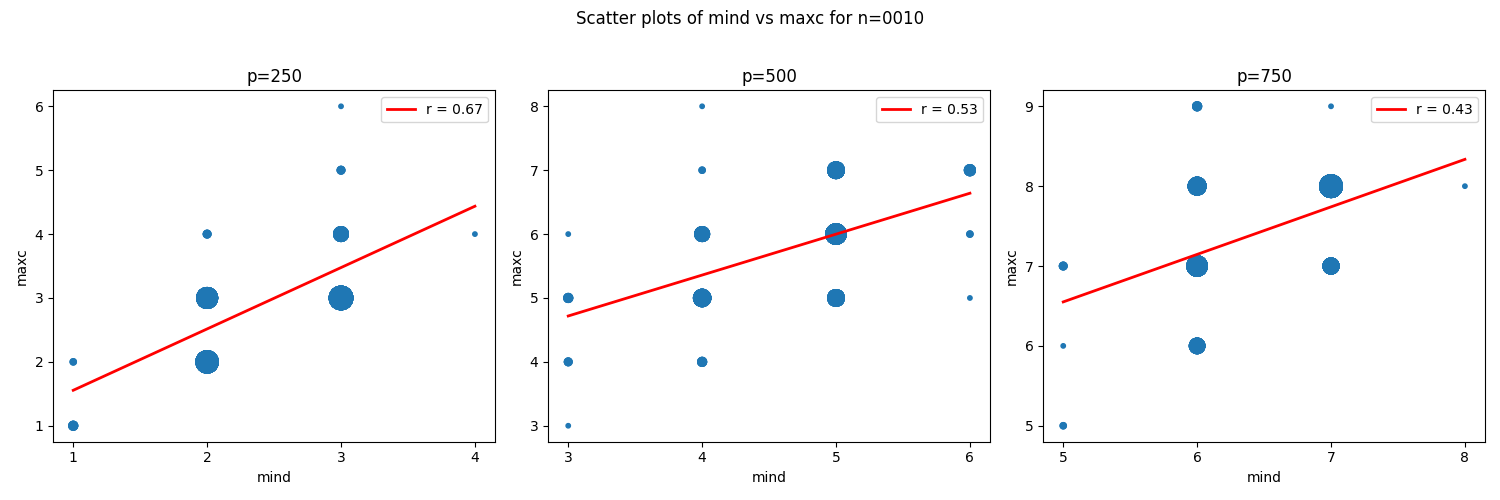
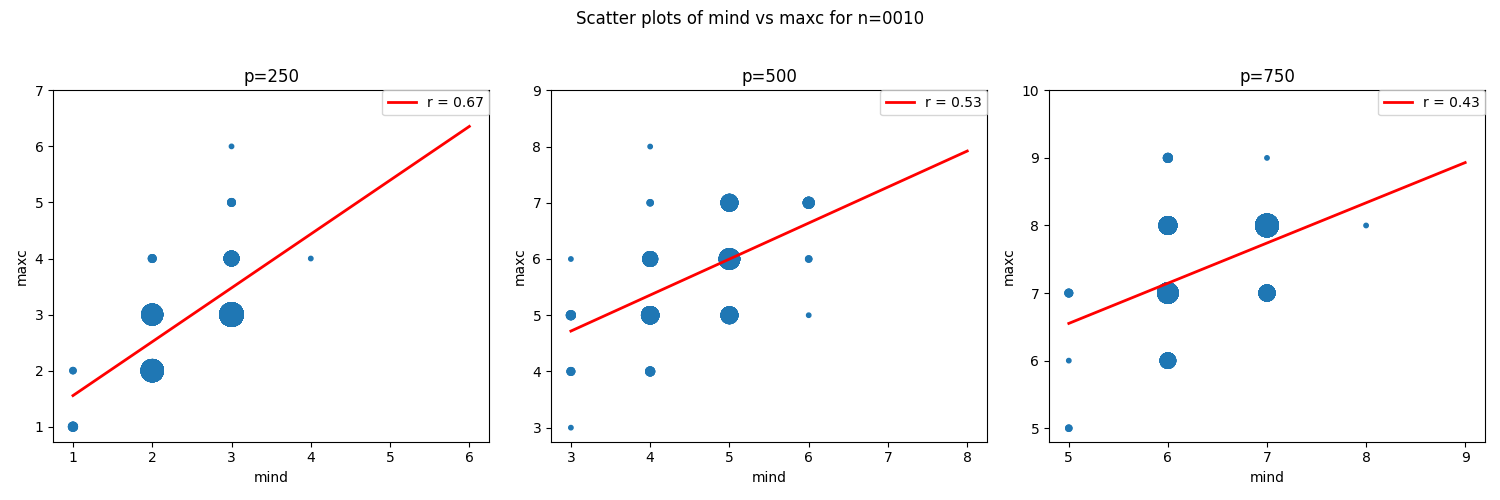
Fix X-Y axis disparity in plots

diff --git a/plot.py b/plot.py
@@ -38,19 +38,21 @@ for n in n_values:
 
             x = df[col1]
             y = df[col2]
+            lo = int(min(*x, *y))
+            hi = int(max(*x, *y))
             slope, intercept, r_value, _, _ = linregress(x, y)
-            line_x = np.linspace(x.min(), x.max(), 100)
+            line_x = np.linspace(lo, hi, 100)
             line_y = slope * line_x + intercept
 
             ax.plot(line_x, line_y, color='red', linewidth=2, label=f'r = {r_value:.2f}')
-            ax.legend()
+            ax.legend(bbox_to_anchor=(1, 1), loc=1, borderaxespad=0)
 
             ax.set_xlabel(col1)
             ax.set_ylabel(col2)
             ax.set_title(f'p={p}')
 
-            ax.set_xticks(np.arange(int(x.min()), int(x.max()) + 1, step=1))
-            ax.set_yticks(np.arange(int(y.min()), int(y.max()) + 1, step=1))
+            ax.set_xticks(np.arange(lo, hi + 1, step=1))
+            ax.set_yticks(np.arange(lo, hi + 2, step=1))
 
         fig.suptitle(f'Scatter plots of {col1} vs {col2} for n={n}')
         plt.tight_layout(rect=[0, 0, 1, 0.96])
